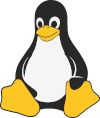
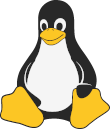
Tux image resized and moved to the right of kernstats.

diff --git a/tools/kernelstats/kernelstats.html b/tools/kernelstats/kernelstats.html
@@ -15,7 +15,7 @@ tags:
 - statistics
 ---
 
-<p><img src="/images/tux-small.png" class="l">This site shows you the top 50 authors in Linux Kernel development of each current stable and longterm releases. The data is beeing generated from the ChangeLog files provided at <a href="https://kernel.org/">kernel.org</a>.</p>
+<p><img src="/images/tux-small.png" class="r">This site shows you the top 50 authors in Linux Kernel development of each current stable and longterm releases. The data is beeing generated from the ChangeLog files provided at <a href="https://kernel.org/">kernel.org</a>.</p>
 
 <p>The data shown below is generated on-the-fly using a Bash/CGI script. It parses around 170MB of data extremely fast using only Shell code and standard Linux/UNIX utilities like cat, cut, grep, head, sed, sort and uniq. Think of doing this using PHP - maybe using a bloated MVC framework - is a bad idea and I believe this will fail in performance... ;) The code is available here: <a href="https://git.xw3.org/xw3/cgi/src/branch/main/kernelstats/kernelstats.sh">https://git.xw3.org/xw3/cgi/src/branch/main/kernelstats/kernelstats.sh</a></p>
 
